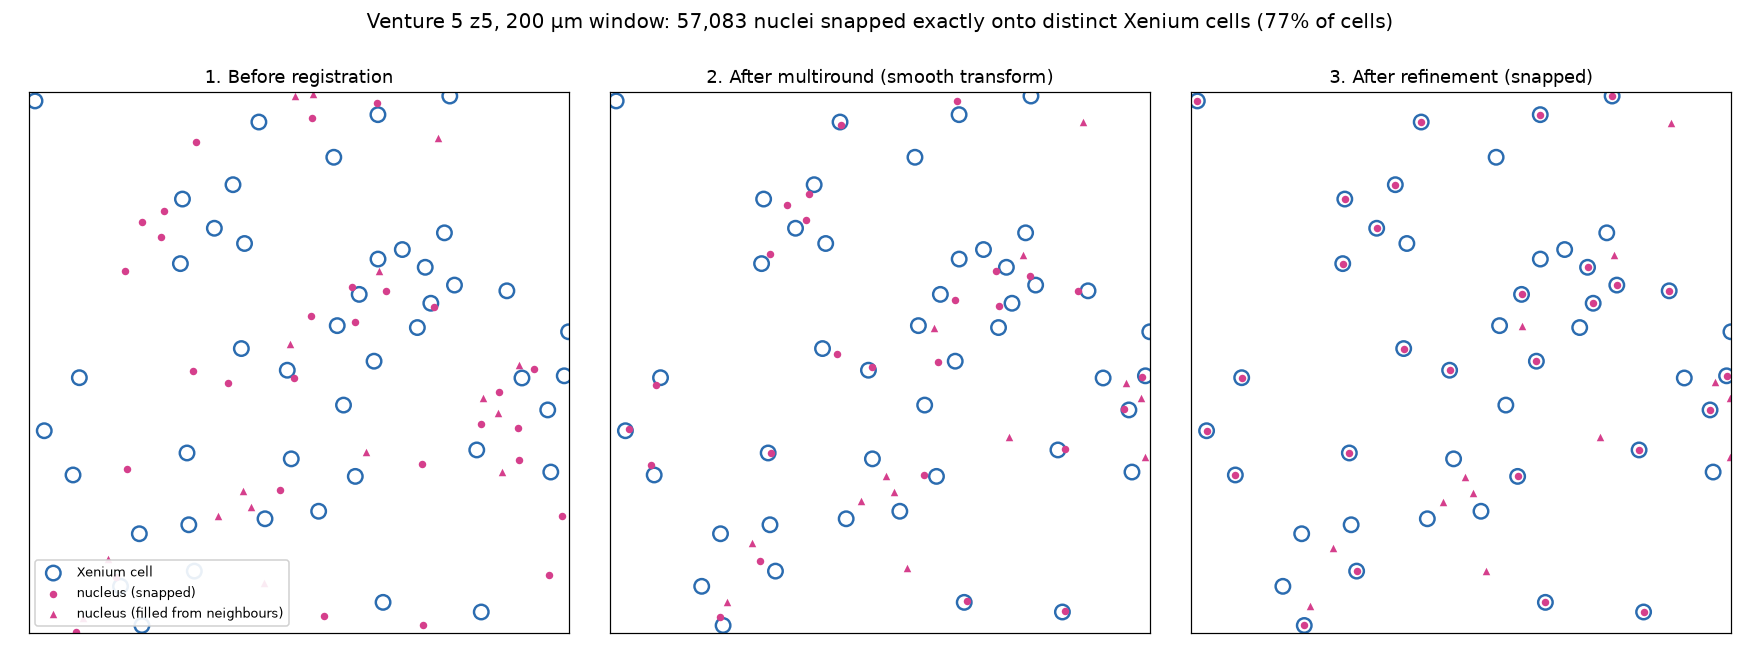
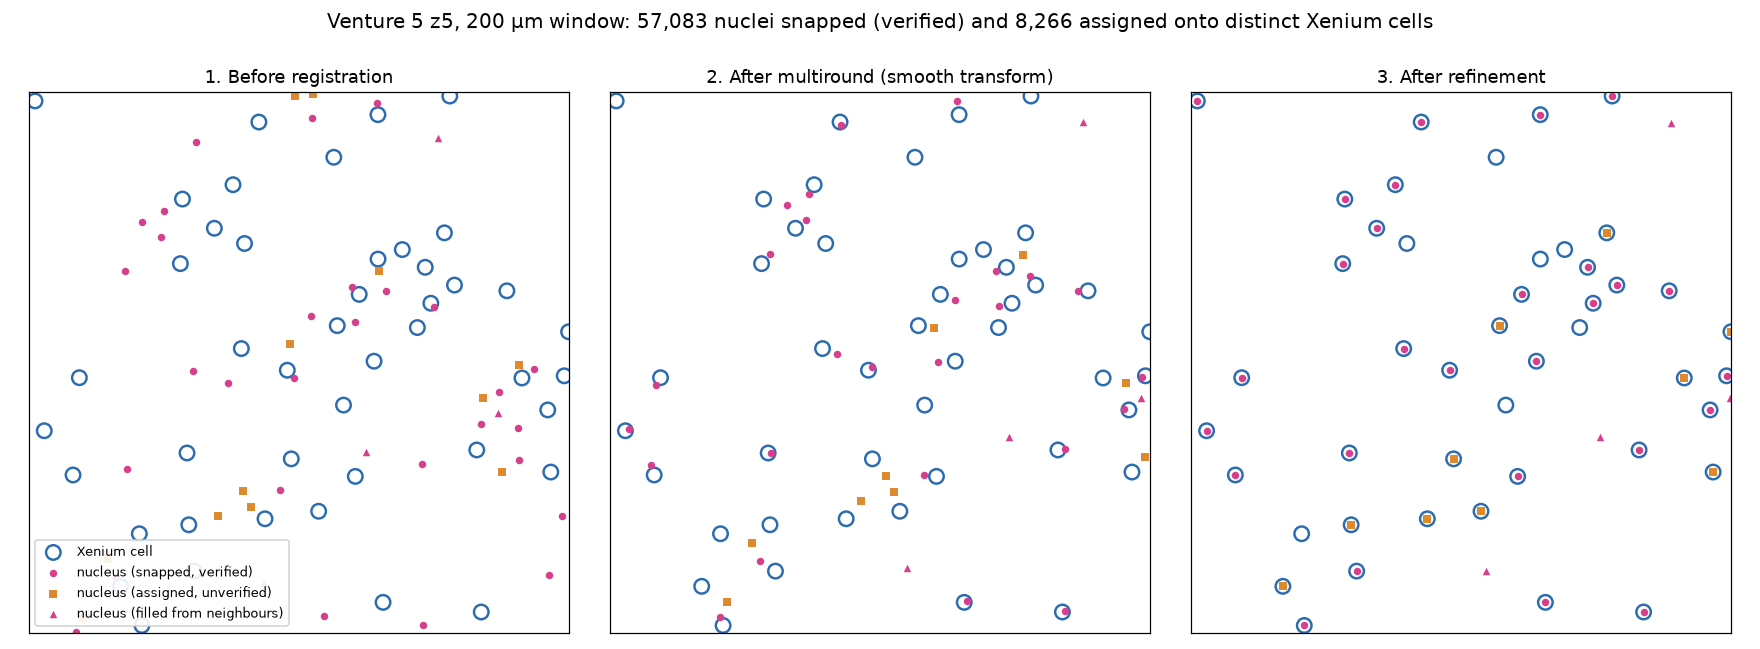
feat(alignment): place remaining nuclei on free cells, flagged as unverified
Nuclei that failed the neighbourhood check were only moved with their
neighbours. They are now assigned to the free Xenium cells around them by a
one-to-one minimum-total-distance assignment (Hungarian, per connected
component, within 0.75 x the cell spacing) and moved onto them, with status
'assigned'.

These pairs are not verified: every placed nucleus now carries a
neighbour_deviation (offset vs. the snapped neighbourhood's median). On z5
snapped pairs have a median of 4.1 um and assigned pairs 8.5 um; on synthetic
data with known truth most leftovers have no true cell and only 25-33% of
assigned pairs are correct. A warning fires when assigned pairs deviate 1.5x
more than snapped ones. --no-assign-remaining / assign_remaining=False opts
out.

z5: 65,349 nuclei on distinct cells (88% of Xenium cells): 57,083 snapped,
8,266 assigned; 9,147 filled; 14,410 outside the Xenium area.

Changed region(s): [[0.1875, 0.0, 0.8125, 0.0616], [0.0, 0.832, 0.1562, 0.9245], [0.75, 0.0924, 0.9062, 0.1541]]

diff --git a/smint/alignment/centroid_registration.py b/smint/alignment/centroid_registration.py
@@ -823,6 +823,46 @@ def register_centroids(
     }
 
 
+def _assign_one_to_one(points, targets, point_idx, target_idx, radius):
+    """
+    Minimum-total-distance one-to-one assignment of ``points[point_idx]`` to
+    ``targets[target_idx]``, using only pairs within ``radius``.
+
+    The candidate graph is split into connected components and each is solved
+    exactly with the Hungarian algorithm, so cost stays proportional to the
+    size of the largest local cluster, not the whole section.
+
+    Returns ``(rows, cols)``: indices into ``points`` and ``targets``.
+    """
+    from scipy.optimize import linear_sum_assignment
+    from scipy.sparse import coo_matrix as _coo
+    from scipy.sparse.csgraph import connected_components as _components
+
+    if len(point_idx) == 0 or len(target_idx) == 0:
+        return np.empty(0, dtype=int), np.empty(0, dtype=int)
+    P, T = points[point_idx], targets[target_idx]
+    neighbours = cKDTree(T).query_ball_point(P, radius)
+    pi = np.repeat(np.arange(len(P)), [len(n) for n in neighbours])
+    ti = np.fromiter((j for n in neighbours for j in n), dtype=int, count=len(pi))
+    if len(pi) == 0:
+        return np.empty(0, dtype=int), np.empty(0, dtype=int)
+    n_p = len(P)
+    graph = _coo((np.ones(len(pi)), (pi, n_p + ti)), shape=(n_p + len(T), n_p + len(T)))
+    _, labels = _components(graph, directed=False)
+    edge_label = labels[pi]
+    rows, cols = [], []
+    order = np.argsort(edge_label, kind="stable")
+    for group in np.split(order, np.flatnonzero(np.diff(edge_label[order])) + 1):
+        gp, gt = np.unique(pi[group]), np.unique(ti[group])
+        cost = np.full((len(gp), len(gt)), 1e9)
+        r = np.searchsorted(gp, pi[group]); c = np.searchsorted(gt, ti[group])
+        cost[r, c] = np.linalg.norm(P[pi[group]] - T[ti[group]], axis=1)
+        rr, cc = linear_sum_assignment(cost)
+        ok = cost[rr, cc] < 1e9
+        rows.extend(gp[rr[ok]]); cols.extend(gt[cc[ok]])
+    return np.asarray(point_idx)[np.asarray(rows, dtype=int)], np.asarray(target_idx)[np.asarray(cols, dtype=int)]
+
+
 def refine_by_assignment(
     source_xy: np.ndarray,
     target_xy: np.ndarray,
@@ -835,6 +875,8 @@ def refine_by_assignment(
     validation_fraction: float = 0.1,
     random_state: Optional[int] = 0,
     passes: int = 4,
+    assign_remaining: bool = True,
+    assign_radius: Optional[float] = None,
 ) -> dict:
     """
     Snap registered source points exactly onto their partner targets.
@@ -855,6 +897,12 @@ def refine_by_assignment(
     5. Repeat: the moved, still-unsnapped points are paired again with the
        still-unmatched targets, and kept if they agree with the snapped field
        around them -- up to ``passes`` times, until nothing new snaps.
+    6. Assign what is left: the filled points and the still-unmatched targets
+       are paired by a minimum-total-distance one-to-one assignment within
+       ``assign_radius``, and each assigned point moves onto its target
+       (status ``'assigned'``). These pairs skipped the consistency test, so
+       they are less certain than ``'snapped'`` ones; filter on the status if
+       that matters.
 
     Snapped points coincide with their targets by construction, so their
     residual says nothing about correctness. The check is ``validation``: a
@@ -881,6 +929,11 @@ def refine_by_assignment(
         are not snapped.
     passes : int
         Pairing passes (step 5); 1 disables re-pairing.
+    assign_remaining : bool
+        Run step 6.
+    assign_radius : float, optional
+        Maximum distance for step 6. Default 0.75 x the target's median
+        nearest-neighbour spacing.
     k_fill : int
         Snapped neighbours whose median offset moves an unsnapped point.
     validation_fraction : float
@@ -889,8 +942,11 @@ def refine_by_assignment(
     Returns
     -------
     dict
-        ``refined_xy`` (``(N, 2)``), ``status`` (``'snapped'``, ``'filled'`` or
-        ``'unmoved'`` per point), ``target_idx`` (partner index, -1 if none),
+        ``refined_xy`` (``(N, 2)``), ``status`` (``'snapped'``, ``'assigned'``,
+        ``'filled'`` or ``'unmoved'`` per point), ``target_idx`` (partner
+        index, -1 if none), ``neighbour_deviation`` (per placed point: distance
+        between its offset and its snapped neighbourhood's median offset --
+        small for right pairs, about a cell spacing for wrong ones),
         ``n_snapped``, ``fraction_snapped`` (of source points),
         ``fraction_targets_matched``, ``consistency_tol`` and ``validation``
         (``median_error``, ``within_2``, ``within_5`` for the held-out pairs).
@@ -900,9 +956,11 @@ def refine_by_assignment(
     moved = transform(source_xy) if transform is not None else source_xy.copy()
     n = len(moved)
 
+    spacing = float(np.median(cKDTree(target_xy).query(target_xy, k=2)[0][:, 1]))
     if consistency_tol is None:
-        spacing = cKDTree(target_xy).query(target_xy, k=2)[0][:, 1]
-        consistency_tol = 0.4 * float(np.median(spacing))
+        consistency_tol = 0.4 * spacing
+    if assign_radius is None:
+        assign_radius = 0.75 * spacing
 
     si, ti, _ = match_centroids(moved, target_xy, max_distance=snap_radius, mutual=True)
     offsets = target_xy[ti] - moved[si]
@@ -994,23 +1052,62 @@ def refine_by_assignment(
         passes_snapped.append(int(np.sum(status == "snapped")))
         fill()
 
+    if assign_remaining:
+        rows, cols = _assign_one_to_one(refined, target_xy, np.flatnonzero(status == "filled"),
+                                        np.setdiff1d(np.arange(len(target_xy)), partner[partner >= 0]),
+                                        assign_radius)
+        refined[rows] = target_xy[cols]
+        status[rows] = "assigned"
+        partner[rows] = cols
+
+    # How far each placed pair's offset is from its snapped neighbourhood's:
+    # ~ the nucleus-in-cell scatter for right pairs, ~ a cell spacing for wrong ones
+    deviation = np.full(n, np.nan)
+    placed = np.flatnonzero(partner >= 0)
+    snapped_idx = np.flatnonzero(status == "snapped")
+    if len(placed) and len(snapped_idx) > min_neighbours:
+        field = target_xy[partner[snapped_idx]] - moved[snapped_idx]
+        k = min(k_fill + 1, len(snapped_idx))
+        d, j = cKDTree(moved[snapped_idx]).query(moved[placed], k=k, distance_upper_bound=neighbour_radius)
+        position = {int(v): i for i, v in enumerate(snapped_idx)}
+        for row, (dd, jj) in zip(placed, zip(d, j)):
+            own = position.get(int(row), -1)
+            nb = [x for x, ok in zip(jj, np.isfinite(dd)) if ok and x != own][:k_fill]
+            if len(nb) >= min(min_neighbours, k_fill):
+                deviation[row] = np.linalg.norm((target_xy[partner[row]] - moved[row])
+                                                - np.median(field[nb], axis=0))
+
     result = {
         "refined_xy": refined, "status": status, "target_idx": partner,
+        "neighbour_deviation": deviation,
+        "n_assigned": int(np.sum(status == "assigned")),
+        "median_deviation": {
+            k: float(np.nanmedian(deviation[status == k])) if np.any(status == k) else float("nan")
+            for k in ("snapped", "assigned")
+        },
         "n_snapped": int(np.sum(status == "snapped")),
         "fraction_snapped": float(np.sum(status == "snapped") / max(n, 1)),
-        "fraction_targets_matched": float(np.sum(status == "snapped") / max(len(target_xy), 1)),
+        "fraction_targets_matched": float(np.sum(partner >= 0) / max(len(target_xy), 1)),
         "snapped_per_pass": passes_snapped,
         "n_filled": int(np.sum(status == "filled")),
         "consistency_tol": float(consistency_tol),
         "validation": validation,
     }
     logger.info(
-        "Refinement: %d points snapped (%.1f%% of source, %.1f%% of targets), %d filled from "
-        "neighbours; held-out field check: median %.2f, %.0f%% within 2, %.0f%% within 5",
-        result["n_snapped"], 100 * result["fraction_snapped"], 100 * result["fraction_targets_matched"],
-        result["n_filled"], validation["median_error"], 100 * validation["within_2"],
-        100 * validation["within_5"],
+        "Refinement: %d snapped and %d assigned (%.1f%% of targets placed), %d filled from "
+        "neighbours; median neighbourhood deviation snapped %.1f / assigned %.1f; held-out field "
+        "check: median %.2f, %.0f%% within 5",
+        result["n_snapped"], result["n_assigned"], 100 * result["fraction_targets_matched"],
+        result["n_filled"], result["median_deviation"]["snapped"], result["median_deviation"]["assigned"],
+        validation["median_error"], 100 * validation["within_5"],
     )
+    if result["n_assigned"] and (result["median_deviation"]["assigned"]
+                                 > 1.5 * result["median_deviation"]["snapped"]):
+        logger.warning(
+            "Assigned pairs deviate from their neighbourhood by a median %.1f (snapped: %.1f): many "
+            "are probably nuclei without a target placed on a neighbour's. Filter on "
+            "neighbour_deviation, or use assign_remaining=False.",
+            result["median_deviation"]["assigned"], result["median_deviation"]["snapped"])
     return result
 
 
@@ -1091,6 +1188,7 @@ def register_centroid_files(
         moved = refinement["refined_xy"]
         result_df["registration_status"] = refinement["status"]
         result_df["target_index"] = refinement["target_idx"]
+        result_df["neighbour_deviation"] = refinement["neighbour_deviation"]
     result_df[x_col] = moved[:, 0]
     result_df[y_col] = moved[:, 1]
 

diff --git a/tests/test_centroid_registration.py b/tests/test_centroid_registration.py
@@ -154,5 +154,24 @@ def test_register_centroid_files_writes_refined_and_smooth(tmp_path):
     pd.DataFrame(source, columns=["centroid_x", "centroid_y"]).to_csv(tmp_path / "s.csv", index=False)
     pd.DataFrame(target, columns=["x_centroid", "y_centroid"]).to_csv(tmp_path / "t.csv", index=False)
     df, result = cr.register_centroid_files(str(tmp_path / "s.csv"), str(tmp_path / "t.csv"))
-    assert {"x_transformed", "x_transformed_smooth", "registration_status", "target_index"} <= set(df.columns)
+    assert {"x_transformed", "x_transformed_smooth", "registration_status", "target_index",
+            "neighbour_deviation"} <= set(df.columns)
     assert result["refinement"]["n_snapped"] == int((df.registration_status == "snapped").sum())
+
+
+def test_assigned_pairs_are_placed_and_flagged_by_their_deviation():
+    source, target, truth = synthetic_section(seed=12)
+    ref = cr.refine_by_assignment(source, target, transform=cr.register_centroids(source, target)["transform"])
+    assigned, snapped = ref["status"] == "assigned", ref["status"] == "snapped"
+    assert assigned.any()
+    assert np.allclose(ref["refined_xy"][assigned], target[ref["target_idx"][assigned]])
+    assert len(set(ref["target_idx"][ref["target_idx"] >= 0])) == np.sum(ref["target_idx"] >= 0)  # one-to-one
+    # Synthetic leftovers mostly have no true cell; their deviation must show it
+    assert ref["median_deviation"]["assigned"] > 2 * ref["median_deviation"]["snapped"]
+
+
+def test_assign_remaining_can_be_disabled():
+    source, target, _ = synthetic_section(seed=12)
+    ref = cr.refine_by_assignment(source, target, transform=cr.register_centroids(source, target)["transform"],
+                                  assign_remaining=False)
+    assert not np.any(ref["status"] == "assigned")

diff --git a/smint/cli/align.py b/smint/cli/align.py
@@ -106,6 +106,9 @@ def build_parser() -> argparse.ArgumentParser:
                           help="Skip snapping matched nuclei onto their cells")
     centroid.add_argument("--snap-radius", type=float, default=10.0,
                           help="Refinement: maximum nucleus-cell distance for snapping")
+    centroid.add_argument("--no-assign-remaining", dest="assign_remaining", action="store_false",
+                          help="Refinement: leave nuclei that fail the neighbourhood check filled, "
+                               "instead of assigning them to the nearest free cell")
     centroid.add_argument("--source-cols", nargs=2, default=["centroid_x", "centroid_y"],
                           metavar=("X", "Y"))
     centroid.add_argument("--target-cols", nargs=2, default=["x_centroid", "y_centroid"],
@@ -307,7 +310,8 @@ def main(argv=None) -> int:
             "source_cols": tuple(args.source_cols),
             "target_cols": tuple(args.target_cols),
             "refine": args.refine,
-            "refine_kwargs": {"snap_radius": args.snap_radius},
+            "refine_kwargs": {"snap_radius": args.snap_radius,
+                              "assign_remaining": args.assign_remaining},
         },
     )
 

diff --git a/smint/cli/register.py b/smint/cli/register.py
@@ -85,7 +85,7 @@ def _run_centroid(spec) -> dict:
             "validation": result.get("validation"),
             "refinement": (
                 {k: v for k, v in result["refinement"].items()
-                 if k not in ("refined_xy", "status", "target_idx")}
+                 if k not in ("refined_xy", "status", "target_idx", "neighbour_deviation")}
                 if "refinement" in result else None
             ),
         },

diff --git a/docs/alignment.md b/docs/alignment.md
@@ -250,19 +250,35 @@ matched nuclei overlap their cells exactly, `register_centroid_files` (and so
 4. **Fill in** every other nucleus with the median offset of its nearest
    snapped neighbours; nuclei with none within 100 µm stay put.
 5. **Repeat** pairing for what is left, up to four passes.
+6. **Assign** the nuclei still left to the free cells around them by a
+   one-to-one, minimum-total-distance assignment (within 0.75 × the cell
+   spacing), and move them onto those cells. These skipped the neighbourhood
+   check, so they are marked `assigned` rather than `snapped`.
 
 ![Before registration, after the smooth transform, and after snapping](assets/registration_refinement.png)
 
-On Venture 5 z5, **57,083 nuclei — 77% of Xenium cells — end up exactly on a
-distinct cell**; 17,413 more follow their neighbours, and the rest lie outside
-the Xenium area (median 250 µm from any cell). On synthetic sections with
-known correspondence, the passes snap 98% of the nuclei that have a cell,
-and 98% of snaps are on the right one.
+On Venture 5 z5, **65,349 nuclei — 88% of Xenium cells — end up exactly on a
+distinct cell**: 57,083 snapped and 8,266 assigned. 9,147 follow their
+neighbours, and 14,410 lie outside the Xenium area (median 250 µm from any
+cell). On synthetic sections with known correspondence, the passes snap 98% of
+the nuclei that have a cell, and 98% of snaps are on the right one.
+
+!!! warning "Assigned pairs are not verified"
+    Each placed nucleus has a `neighbour_deviation`: how far its offset is from
+    the median offset of the snapped nuclei around it. Right pairs sit at the
+    nucleus-in-cell scatter; a nucleus put on a neighbour's cell deviates by
+    about a cell spacing. On z5 the snapped pairs' median is 4.1 µm and the
+    assigned pairs' 8.5 µm, and on synthetic data only 25–33% of assigned
+    pairs are correct — most leftovers are nuclei with no Xenium cell
+    (over-segmentation, or outside the Xenium plane). Large cells can hold a
+    nucleus far off-centre, so some assigned pairs will be right; centroids
+    alone can't say which. Filter on `registration_status` /
+    `neighbour_deviation`, or pass `--no-assign-remaining`.
 
 The output CSV holds the snapped positions in `x_transformed` /
 `y_transformed`, the smooth-transform positions in `*_smooth`, a
-`registration_status` (`snapped` / `filled` / `unmoved`) and the partner's
-row in `target_index`. Use `--no-refine` (or `refine=False`) for the smooth
+`registration_status` (`snapped` / `assigned` / `filled` / `unmoved`), the
+partner's row in `target_index` and `neighbour_deviation`. Use `--no-refine` (or `refine=False`) for the smooth
 transform alone.
 
 !!! note "A snapped nucleus has zero residual by construction"

diff --git a/docs/examples.md b/docs/examples.md
@@ -170,8 +170,10 @@ smint-alignment centroid \
   "tre_initial": 10.96,
   "tre_fit": 4.45,
   "tre_validation": 4.93,
-  "refinement": {"n_snapped": 57083, "fraction_targets_matched": 0.77,
-                 "snapped_per_pass": [55208, 56923, 57069, 57083], "n_filled": 17413},
+  "refinement": {"n_snapped": 57083, "n_assigned": 8266, "n_filled": 9147,
+                 "fraction_targets_matched": 0.88,
+                 "median_deviation": {"snapped": 4.14, "assigned": 8.54},
+                 "snapped_per_pass": [55208, 56923, 57069, 57083]},
   "rounds": [
     {"stage": "initial", "median_nn": 12.40},
     {"stage": "affine", "block_size": 500.0, "blocks": 300, "consistent_blocks": 0.91,
@@ -192,9 +194,12 @@ held out before any matching, and is the number to trust for the transform:
 finer TPS round didn't improve the fitting nuclei, so it was rejected.
 
 Registration is then refined: **57,083 nuclei snap exactly onto distinct
-Xenium cells — 77% of the cells** — over four pairing passes, and 17,413 more
-move with their snapped neighbours. The output CSV's `registration_status`
-says which. See [Snapping matched nuclei](alignment.md#snapping-matched-nuclei-onto-their-cells).
+Xenium cells** over four pairing passes, each checked against its
+neighbourhood, and 8,266 more are assigned to the free cells around them —
+**88% of Xenium cells** now carry a nucleus. The assigned pairs deviate twice
+as much from their neighbourhood (8.5 µm against 4.1 µm), so treat them as
+unverified; the output CSV's `registration_status` and `neighbour_deviation`
+say which is which. See [Snapping matched nuclei](alignment.md#snapping-matched-nuclei-onto-their-cells).
 
 ![Before registration, after the smooth transform, and after snapping](assets/registration_refinement.png)
 
